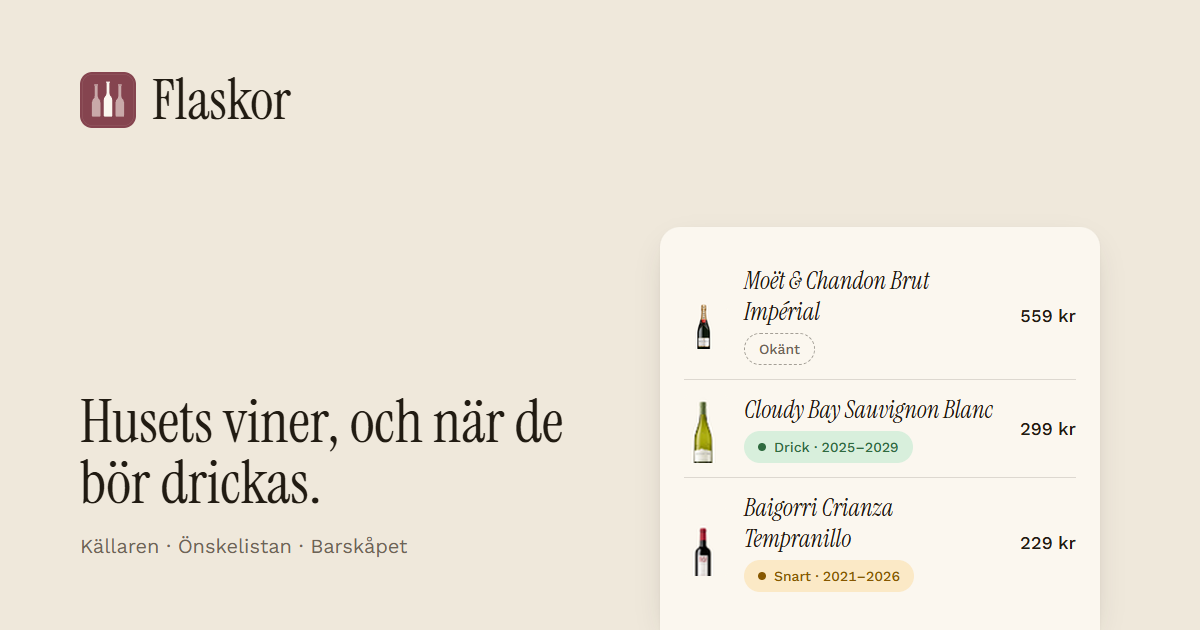
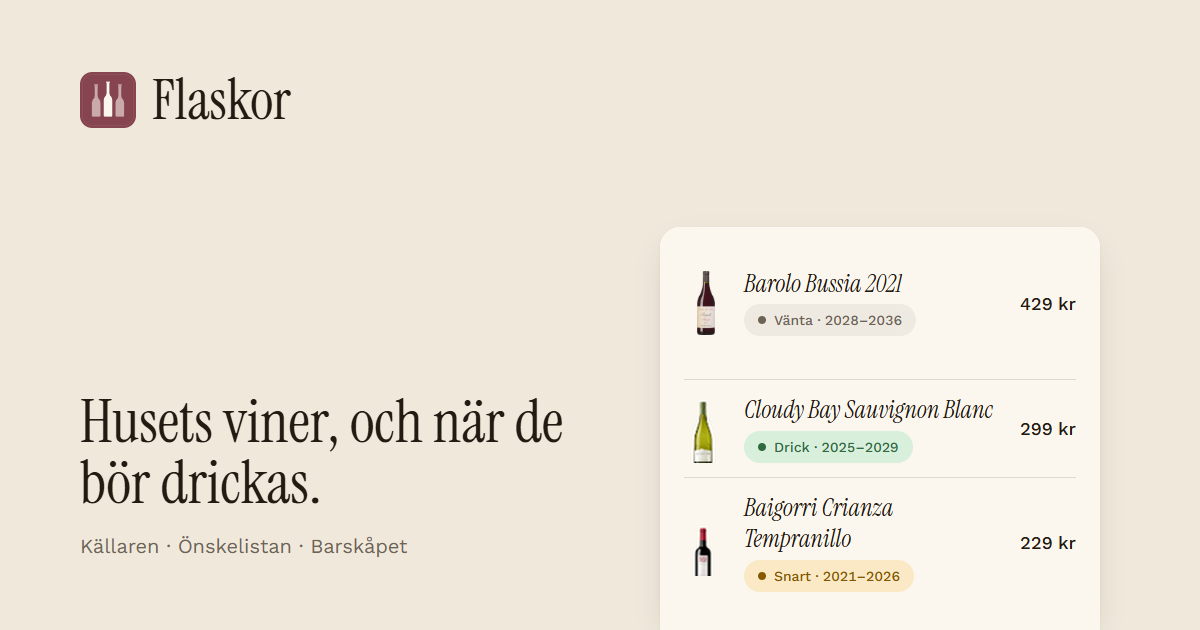
fix: OG-bildens Moët & Chandon bytt mot Barolo Bussia 2021 (vänta-tillstånd)

Changed region(s): [[0.555, 0.4222, 0.7708, 0.573], [0.8325, 0.4524, 0.8942, 0.5127]]

diff --git a/HANDOFF.md b/HANDOFF.md
@@ -1,13 +1,15 @@
 ---
 schemaVersion: 1
 status: active
-currentGoal: 2026-09-15 kväll: gästläge och export live (commits c0df8e0, 891feea, Worker a8d81a81, bundeln index-Dg_xJSRg.js). Utan konto sparas allt i localStorage, uppslag fungerar utan konto med tak per IP, skanning, lager, uppdatering och hushåll visar ett kort "Kräver konto", påminnelser om lokal lagring, lokala rader följer med vid inloggning, export JSON och CSV under Konto. 2026-09-15 Flaskor öppen för fler hushåll, byggd i batch-läge och live utom själva inloggningen. Firebase-inloggning (Google, e-post), ett hushåll per konto med inbjudningskod, radera konto, integritetstext, tak per konto, nattjobb och spegelimport bara för grindkoden, FTS5 i spegeln (commits 6e61858, fafc1ee, 62730d7, b352481, pushade; migrering 0008 och 0009 körda i molnet kl. 14:40, Worker 20fd7bc3, bundeln index-9qwUTQcI.js). Före det minus och plus i tabellens Antal-kolumn (5da909c, live) och D1-fixen bekräftad av nattens spegelkörning (2 ändrade, 166 borttagna).
-nextAction: Julia loggar in i en redan upplåst webbläsare (eller går med via inbjudningskoden under Konto), sedan byts grindkoden och grindkodsgrenen i joinHousehold tas bort. Det tomma hushållet 2 (Patriks första inloggning) kan raderas för hand. Patrik provar gästläget live (Prova utan konto, lägg in en flaska, skapa konto och se att den följer med), och loggar in med Julia i redan upplåsta webbläsare så kontona hamnar i hushåll 1. Sedan byts grindkoden. Därefter kan appen delas på forum.
+currentGoal: 2026-09-16 kväll: titeln i sidopanelen länkar nu till Källaren (commit 8d3e5dd, redan pushad), och OG-bildens första rad bytt från Moët & Chandon till en Barolo (den här sessionens commit, se nedan). Tidigare: 2026-09-15 kväll gästläge och export live (commits c0df8e0, 891feea, Worker a8d81a81, bundeln index-Dg_xJSRg.js). 2026-09-15 Flaskor öppen för fler hushåll, Firebase-inloggning, FTS5 i spegeln (commits 6e61858, fafc1ee, 62730d7, b352481; migrering 0008/0009 körda, Worker 20fd7bc3).
+nextAction: Julia loggar in i en redan upplåst webbläsare (eller går med via inbjudningskoden under Konto), sedan byts grindkoden och grindkodsgrenen i joinHousehold tas bort. Det tomma hushållet 2 (Patriks första inloggning) kan raderas för hand.
 blockers: []
 reviewedAt: 2026-09-16
 ---
 
 # Handoff: Flaskor
+
+**2026-09-16 kl. 16:10, OG-bilden:** Första raden bytt: Moët & Chandon Brut Impérial (Okänt, 559 kr) ersatt med Barolo Bussia 2021 (Poderi Colla, Vänta · 2028–2036, 429 kr), så bilden visar en av varje pilltillstånd (Vänta/Drick/Snart) i stället för två okända. Bytt genom att rendera bara den nya raden i en headless webbläsare (samma typsnitt/toner) och klistra in pixel-exakt på originalbilden (`public/og-image.png`), resten orörd. Titeln i sidopanelen länkar sedan tidigare på kvällen till Källaren (commit 8d3e5dd). Verifierat: `npm run check` (tsc, 72 + 85 tester, torrdeploy), zoomad pixelkoll av fogen mellan rad 1 och rad 2 (ingen synlig skarv), `og-image.png` fortfarande 1200×630 RGB PNG.
 
 **2026-09-16 kl. 15:40, Patrik i hushåll 1:** Google-inloggningen skapade hushåll 2 (tomt) eftersom webbläsaren saknade grindkoden. Medlemsraden flyttad till hushåll 1 med `wrangler d1 execute --remote` (Cloudflare-MCP:n stoppades av klassificeraren), verifierat: 60 rader synliga. Hushåll 2 ligger kvar tomt. Julias konto återstår.
 
